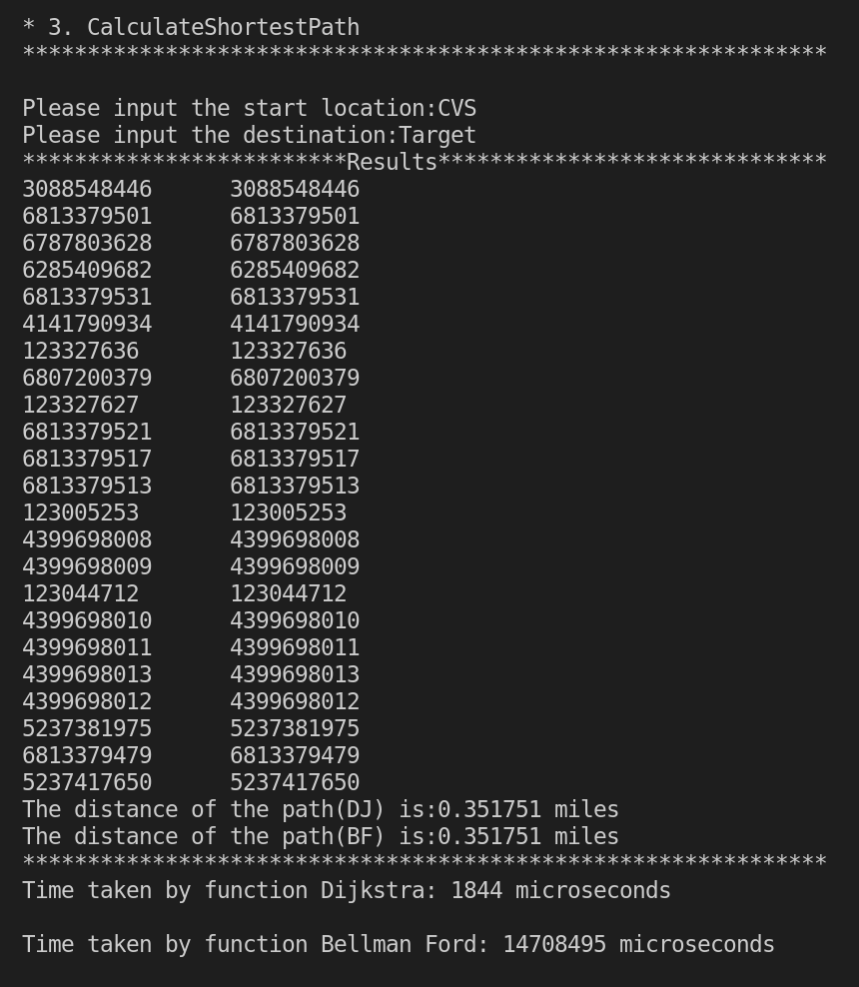
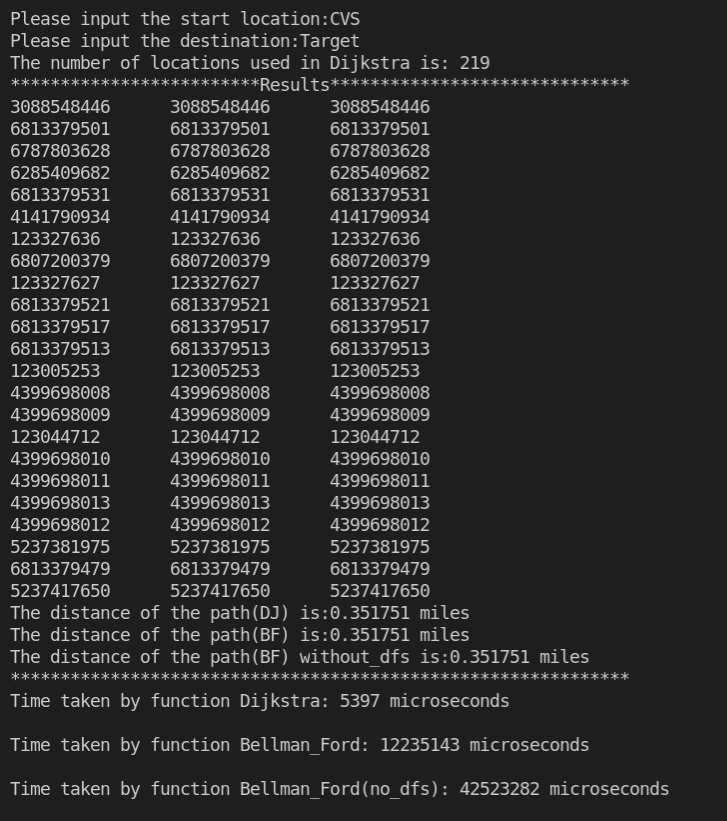
Bellman revise

Changed region(s): [[0.0, 0.0, 0.9684, 0.9135], [0.0, 0.944, 0.9078, 0.9744]]

diff --git a/src/lib/trojanmap.h b/src/lib/trojanmap.h
@@ -184,7 +184,7 @@ class TrojanMap {
   bool CycleDetection(std::vector<double> &square);
   //bool IsCyclicUtil(std::string u,std::map<std::string,int>&visited,std::string parent);
   bool IsCyclicUtil(std::string node,std::map<std::string,bool>&isvisited,
-     std::string parent,std::unordered_map<std::string,std::vector<std::string>> adj,std::vector<std::string>store_node);
+     std::string parent,std::unordered_map<std::string,std::vector<std::string>> adj,std::vector<std::string>&store_node);
   // Given a location id and k, find the k closest points on the map
   std::vector<std::string> FindKClosestPoints(std::string name, int k);
   void FindNodes_DFS(std::string u,std::unordered_map<std::string,bool>&visited,

diff --git a/src/lib/trojanmap.cc b/src/lib/trojanmap.cc
@@ -1440,7 +1440,7 @@ bool TrojanMap::CycleDetection(std::vector<double> &square) {
 
 //using DFS to find cycle
  bool TrojanMap::IsCyclicUtil(std::string node,std::map<std::string,bool>&isvisited,
-     std::string parent,std::unordered_map<std::string,std::vector<std::string>> adj,std::vector<std::string>store_node){
+     std::string parent,std::unordered_map<std::string,std::vector<std::string>> adj,std::vector<std::string>&store_node){
   isvisited[node]=true;
   store_node.push_back(node);
   for(auto &nei:adj[node]){

diff --git a/README.md b/README.md
@@ -160,25 +160,25 @@ Given 2 locations A and B, find the best route from A to B.(A is src location an
 <p align="center"><img src="report/3_Bellman_mp.png" alt="3_Bellman_mp" width="500"/></p>
 
 ### Runtime Comparison
-| # locs | Src Loc | Dst Loc | Dist(miles) | DJ-runtime(usec)| BF-runtime(usec) |
-| :--- | :--- | :--- | :--- | :--- | :--- |
-| 9 | 7Eleven |  Popeyes Louisiana Kitchen| 0.107757 | 489 | 15,032,881 |
-| 17 | Tap Two Blue | 7Eleven | 0.259747 | 994 | 14,186068 |
-| 23 | CVS | Target | 0.351751 | 1,844 | 14,708,495 |
-| 29 | Target | Ralphs | 0.839235 | 21,308 | 14,822,822 |
-| 39 | 7Eleven | CVS | 0.463025 | 4,338 | 13,974,720 |
-| 53 | 7Eleven | Target | 0.788389 | 7,976 | 15,537,051 |
-| 49 | Ralphs | CVS | 1.14497 | 9,330 | 14,655,557 |
-| 54 | Tap Two Blue | CVS | 0.684286 | 4,782 | 14,463,257 |
-| 64 | Ralphs | 7Eleven | 1.3303 | 14,042 | 15,988,243 |
-| 101 | Metro 40 | Driveway | 1.77417 | 54,777 | 15,715,079 |
+| # locs | Src Loc | Dst Loc | Dist(miles) | DJ-runtime(usec)| BF-runtime(usec) |BF_no_dfs(usec) |
+| :--- | :--- | :--- | :--- | :--- | :--- | :--- |
+| 9 | 7Eleven |  Popeyes Louisiana Kitchen| 0.107757 | 722 | 12,010,664 | 34,690,787 |
+| 17 | Tap Two Blue | 7Eleven | 0.259747 | 1,729 | 12,012,578 | 41,464,945 |
+| 23 | CVS | Target | 0.351751 | 5,397 | 12,235,143 | 42,523,282 |
+| 29 | Target | Ralphs | 0.839235 | 17,468 | 18,147,834 | 41,360,928 |
+| 39 | 7Eleven | CVS | 0.463025 | 7,734 | 15,828,401 | 40,427,852 |
+| 53 | 7Eleven | Target | 0.788389 | 17,312 | 11,406,505 | 33,134,819 |
+| 49 | Ralphs | CVS | 1.14497 | 20,561 | 11,798,791 | 36,381,823 |
+| 54 | Tap Two Blue | CVS | 0.684286 | 7472 | 12,601,368 | 40,832,393 |
+| 64 | Ralphs | 7Eleven | 1.3303 | 20,467 | 12,772,751 | 41,484,131 |
+| 101 | Metro 40 | Driveway | 1.77417 | 47,998 | 12,234,771 | 39,619,284 |
 
 From the table above, we could found that the speed of Dijkstra is exceeded Bellman Ford to great extent. That is because Bellman ford need to iterate each node in the data using DFS to find the graph. However, Dijstra doesn't need to do that. Dijstra using priority_queue to find the shortest distance, it only need to sort the relevant node.
 
 ### Time Complxity
 CalculateShortestPath_Dijkstra: O(m+nlogn) the number of total edge in the graph is m, the number of the total nodes we need is n. We use the heap to store DJNodes, therefore the time complexity of picking the shortest Node is logn. Thus, the total time complexity is O(m+nlogn).
 
-CalculateShortestPath_Bellman_Ford: O(m*n+m+n) the number of total edge in the graph is m, the number of the total nodes is n. Firstly, we use DFS to find the graph, we visited all the node relevant with source node, and we wisited all the children of each node, thus the time complexity is O(m+n). The we use Bellman Ford to find the shortest path. We visit all the edge. After we visited each edge O(m), we renew all of the nodes O(n). Therefore, the time complexity of Bellman-Ford is O(m*n).
+CalculateShortestPath_Bellman_Ford: O(m*n+m+n) the number of total edge in the graph is m, the number of the total nodes is n. Firstly, we use DFS to find the graph, we visited all the node relevant with source node, and we wisited all the children of each node, thus the time complexity is O(m+n). The we use Bellman Ford to find the shortest path. We visit all the edge. After we visited each edge O(m), we renew all of the nodes O(n). Therefore, the time complexity of Bellman-Ford is O(m*n). Since CalculateDistance is a costy function, we add dfs to shorten the points to decrease the time of calling CalculateDistance. We can learn from the table that using dfs to decrease the points will shorten the run time to great extent.
 
 ### Sample Sreenshot
 <p align="center"><img src="report/3_1.png" alt="3_1" width="500"/></p>
